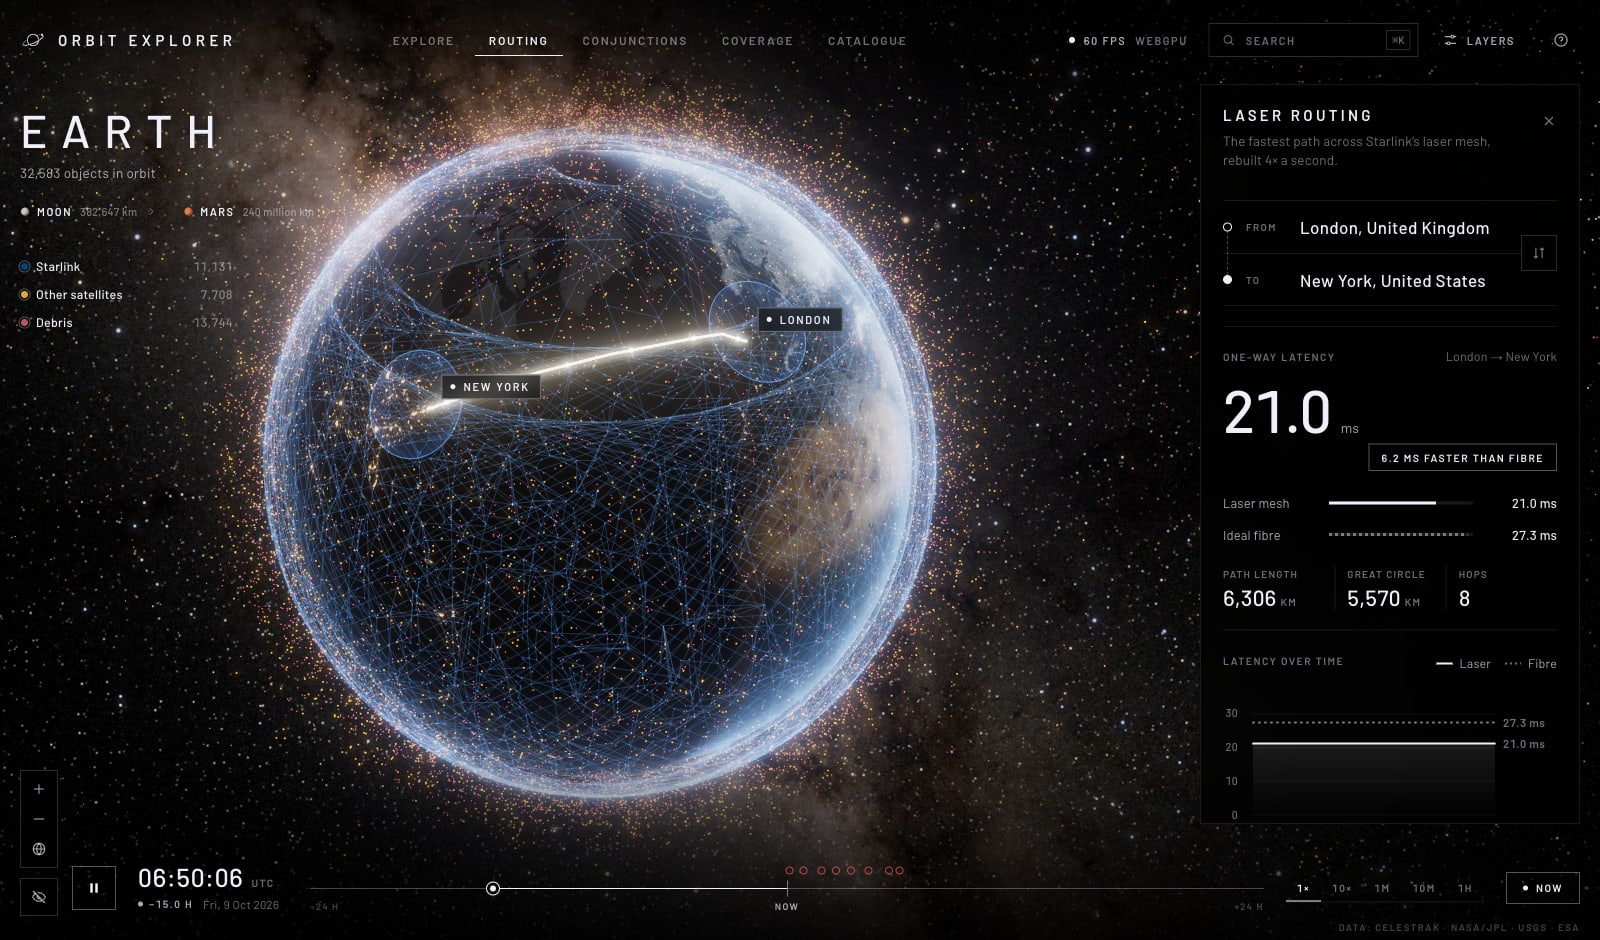
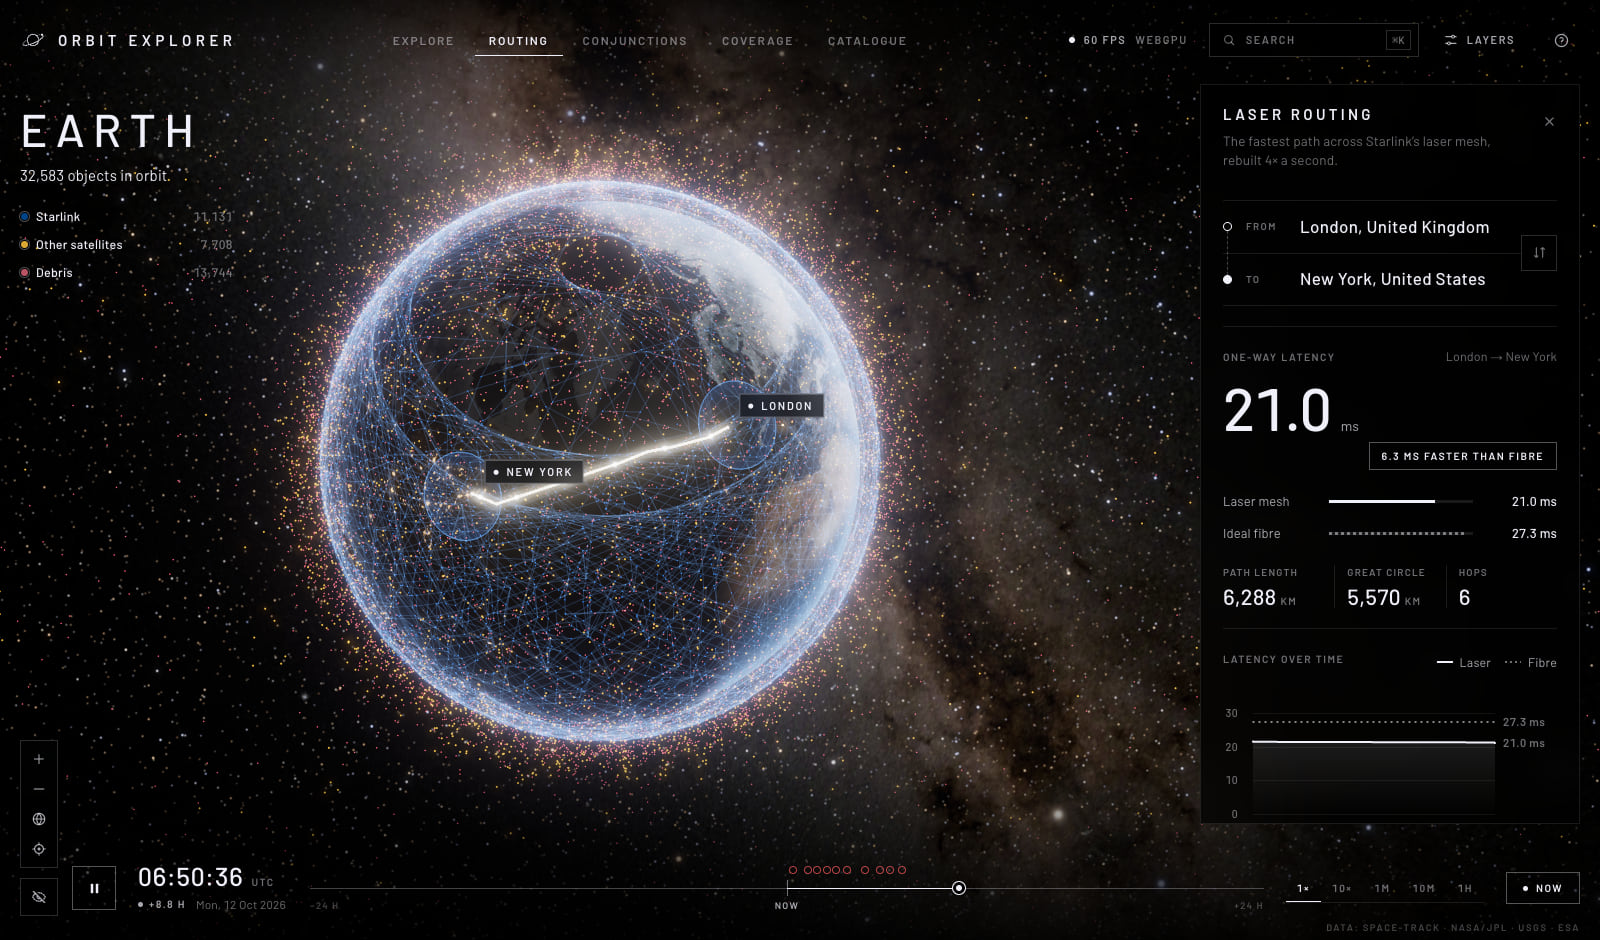
Refresh the README's screenshots; add the Oort cloud and Link to Earth
- New hero: the header no longer lists only the Moon and Mars
- Jupiter and the heliosphere retaken after the orbit-track flash fix;
  Jupiter now shows the Great Red Spot
- Add the Oort cloud and Mars' Link to Earth panel, and link the demo video
- The worlds are now listed top right under Fly to

diff --git a/README.md b/README.md
@@ -6,20 +6,28 @@
 
 <p align="center"><img src="docs/media/orbit.webp" width="420" alt="The laser mesh flowing over the Atlantic at 10 minutes per second while the London–New York route re-routes"><br><sub>10 min/s: satellites move, the mesh rebuilds and the London → New York path re-routes.</sub></p>
 
+<p align="center"><b><a href="docs/media/orbit-explorer-x.mp4">▶ Watch the 55-second demo</a></b> <sub>(1080p, with sound)</sub></p>
+
 It also flies to **every planet, the Moon and out to the Oort cloud**. Every known moon of Mars and the giant planets (all 115 of Jupiter's, 290 of Saturn's, 28 of Uranus' and 16 of Neptune's) and every spacecraft orbiting another world (LRO, Danuri, MRO, Juno, BepiColombo arriving at Mercury, and more) fly on JPL's own trajectories. The Moon and Mars have 16k LRO and Viking maps with laser-altimeter relief, Mercury MESSENGER's, Venus Magellan's radar under its clouds, the giants Hubble's 2025 global maps and Saturn its rings. Out past Neptune lie the real Kuiper belt (7,299 objects), the heliosphere's edges, a model of the Oort cloud, and **Voyager 1 and 2** on their actual paths since 1977, 172 and 144 au out. A relay planner shows when a rover on the Moon or Mars can talk to Earth, and how long the signal takes.
 
 <p align="center"><img src="docs/media/moon-flight.webp" width="720" alt="The camera rises off the Earth, swings round past the Milky Way and the Sun, and falls toward the lit side of the Moon, where the lunar orbiters' paths appear"><br><sub>Earth to the Moon: the camera climbs away, turns toward the destination and arrives on the lit side, with the lunar orbiters' paths.</sub></p>
 
 <table>
   <tr>
-    <td><img src="docs/media/jupiter.jpg" alt="Jupiter from Hubble's December 2025 map, with the Great Red Spot near the limb, among the orbits of its moons and of Juno"></td>
+    <td><img src="docs/media/jupiter.jpg" alt="Jupiter from Hubble's December 2025 map, the Great Red Spot turned toward the camera, inside the orbits of its moons and Juno's polar orbit"></td>
     <td><img src="docs/media/saturn.jpg" alt="Saturn in October 2026, its rings nearly edge-on after the 2025 ring-plane crossing, with the orbits of its major moons"></td>
-    <td><img src="docs/media/outer-solar-system.jpg" alt="The heliosphere from outside: the termination shock and heliopause, the Kuiper belt, and the two Voyagers' paths leaving past the planets"></td>
   </tr>
   <tr>
     <td align="center"><sub><b>Jupiter</b> · Hubble OPAL, Dec 2025<br>115 moons and Juno</sub></td>
     <td align="center"><sub><b>Saturn</b> · rings near edge-on in 2026<br>290 moons, Cassini edges and gaps</sub></td>
+  </tr>
+  <tr>
+    <td><img src="docs/media/outer-solar-system.jpg" alt="The heliosphere from outside: the termination shock and heliopause around the Kuiper belt and the dwarf planets, with Voyager 1 and 2 leaving in different directions"></td>
+    <td><img src="docs/media/oort-cloud.jpg" alt="The modelled Oort cloud seen from outside, a dense core around the Sun thinning out to the 100,000 au ring"></td>
+  </tr>
+  <tr>
     <td align="center"><sub><b>Leaving the Sun</b> · the Voyagers past the<br>termination shock, heliopause and Kuiper belt</sub></td>
+    <td align="center"><sub><b>The Oort cloud</b> · a model, 2,000 to 100,000 au<br>sunlight takes 1.6 years to reach its edge</sub></td>
   </tr>
 </table>
 
@@ -139,11 +147,14 @@ The globe fills the screen; the interface is a few pieces of type and thin-lined
 - **Away from the Earth**, the key under the headline doubles as switches: **Moons** hides every moon but the selected one, so the spacecraft among Jupiter's 115 moons are easy to find and pick, and **Orbits** (off at first) draws every orbiter's track, and the planets' from afar.
 - **Selecting** an object shows its live state and always draws its orbit, fading behind it and bright ahead. **Follow** flies the camera there along a great-circle arc and rides along; stopping zooms back out with the object still centred. Selecting a conjunction draws both objects' orbits, so the crossing geometry is visible.
 - **The time bar** is a mission timeline: ±24 h around now, with each screened conjunction marked where it happens. Click one to jump to 90 s before closest approach.
-- **Every world** is listed under the headline, inner worlds on the left and outer ones on the right, with how far each is now: click one to fly there (also **E**, **M** and **.** for the Earth, the Moon and Mars, **[** and **]** to step inward or outward, or click a world's name where it hangs in the sky). The panels change with the world: elsewhere, **Orbiters** (or **Moons & craft**) lists what is there with live distance and period, the big moons first and the rest folded into inner and captured irregular moons. Around the Moon and Mars, **Link to Earth** charts the next 24 hours at a landing site. It shows when the Earth is above the horizon (never at Chang'e 4 on the far side, always at Tranquility Base) and when each relay orbiter passes, with the one-way light time. The big moons are mapped globes, the small ones cratered bodies, and spacecraft get a model when followed: the Voyagers, Juno and BepiColombo their own.
+- **Every world** is listed top right under *Fly to*, outward from the Sun with the Moon under the Earth, with how far each is from the world you're at now (a mode's panel takes its place; on a phone the worlds are a strip in the header): click one to fly there (also **E**, **M** and **.** for the Earth, the Moon and Mars, **[** and **]** to step inward or outward, or click a world's name where it hangs in the sky). The panels change with the world: elsewhere, **Orbiters** (or **Moons & craft**) lists what is there with live distance and period, the big moons first and the rest folded into inner and captured irregular moons. Around the Moon and Mars, **Link to Earth** charts the next 24 hours at a landing site. It shows when the Earth is above the horizon (never at Chang'e 4 on the far side, always at Tranquility Base) and when each relay orbiter passes, with the one-way light time. The big moons are mapped globes, the small ones cratered bodies, and spacecraft get a model when followed: the Voyagers, Juno and BepiColombo their own.
 - **The Oort cloud** is the solar system seen from outside: the planets' and dwarf planets' orbits, the Voyagers' paths bending past the giants, the Kuiper belt, the termination shock and heliopause where the Voyagers crossed them, and the cloud itself, with distance rings in light-time from 1 to 100,000 au. Each part appears at the scale where it means something. **Voyager 1 and 2** are in the catalogue: the Catalogue panel lists them under *Beyond Earth orbit*, and **⌘K** finds them by name or by their NORAD numbers, 10321 and 10271.
 - **Venus** is drawn as it looks, a pale deck of cloud turning every four days; the **Radar surface** layer shows Magellan's map of the ground beneath.
 - **Layers** toggle the laser mesh, route, terminal visibility cones, coverage heatmap and the sky, and choose the reference frame: *Rotate with Earth* (ground fixed, satellites sweep over it) or *Fixed to stars* (orbital planes fixed, the Earth turns beneath them).
 - **Object groups** use Paul Tol's high-contrast scheme (Starlink blue, other satellites yellow, debris red), whose hues also differ in lightness, so they survive colour-blindness and greyscale. The dark blue is lifted on the globe and ringed in the legend to stay legible against black.
+
+![Mars with the Link to Earth panel open at Perseverance's site in Jezero crater: a one-way light time of 13 min 12 s, the Earth 74° up, and the next 24 hours of daylight, direct contact and passes by MRO, Mars Odyssey, Trace Gas Orbiter, Mars Express and Hope](docs/media/mars-relay.jpg)
+<p align="center"><sub><b>Link to Earth</b> at Jezero: the next 24 hours of daylight, direct contact with the Earth and passes by each of the five orbiters.</sub></p>
 
 **Each Starlink is drawn as its hardware generation.** The NORAD ID says which launch a satellite came from, and so which hardware it carries: V1.0/V1.5 (Falcon 9, 2019–23), V2 Mini including its Direct-to-Cell variant (Falcon 9, 2023 on), or V3 (Starship, from September 2026). Through mid-2023 SpaceX alternated V1.5 and V2 Mini launches, so the version comes from a table of ID ranges built from Jonathan McDowell's launch list (`starlinkVersion` in `web/src/sim/catalog.ts`), not a single cut-off. SpaceX hasn't published V3's layout; its model is an approximation from the reported ~7.5 m bus and ~60 m span.
 
